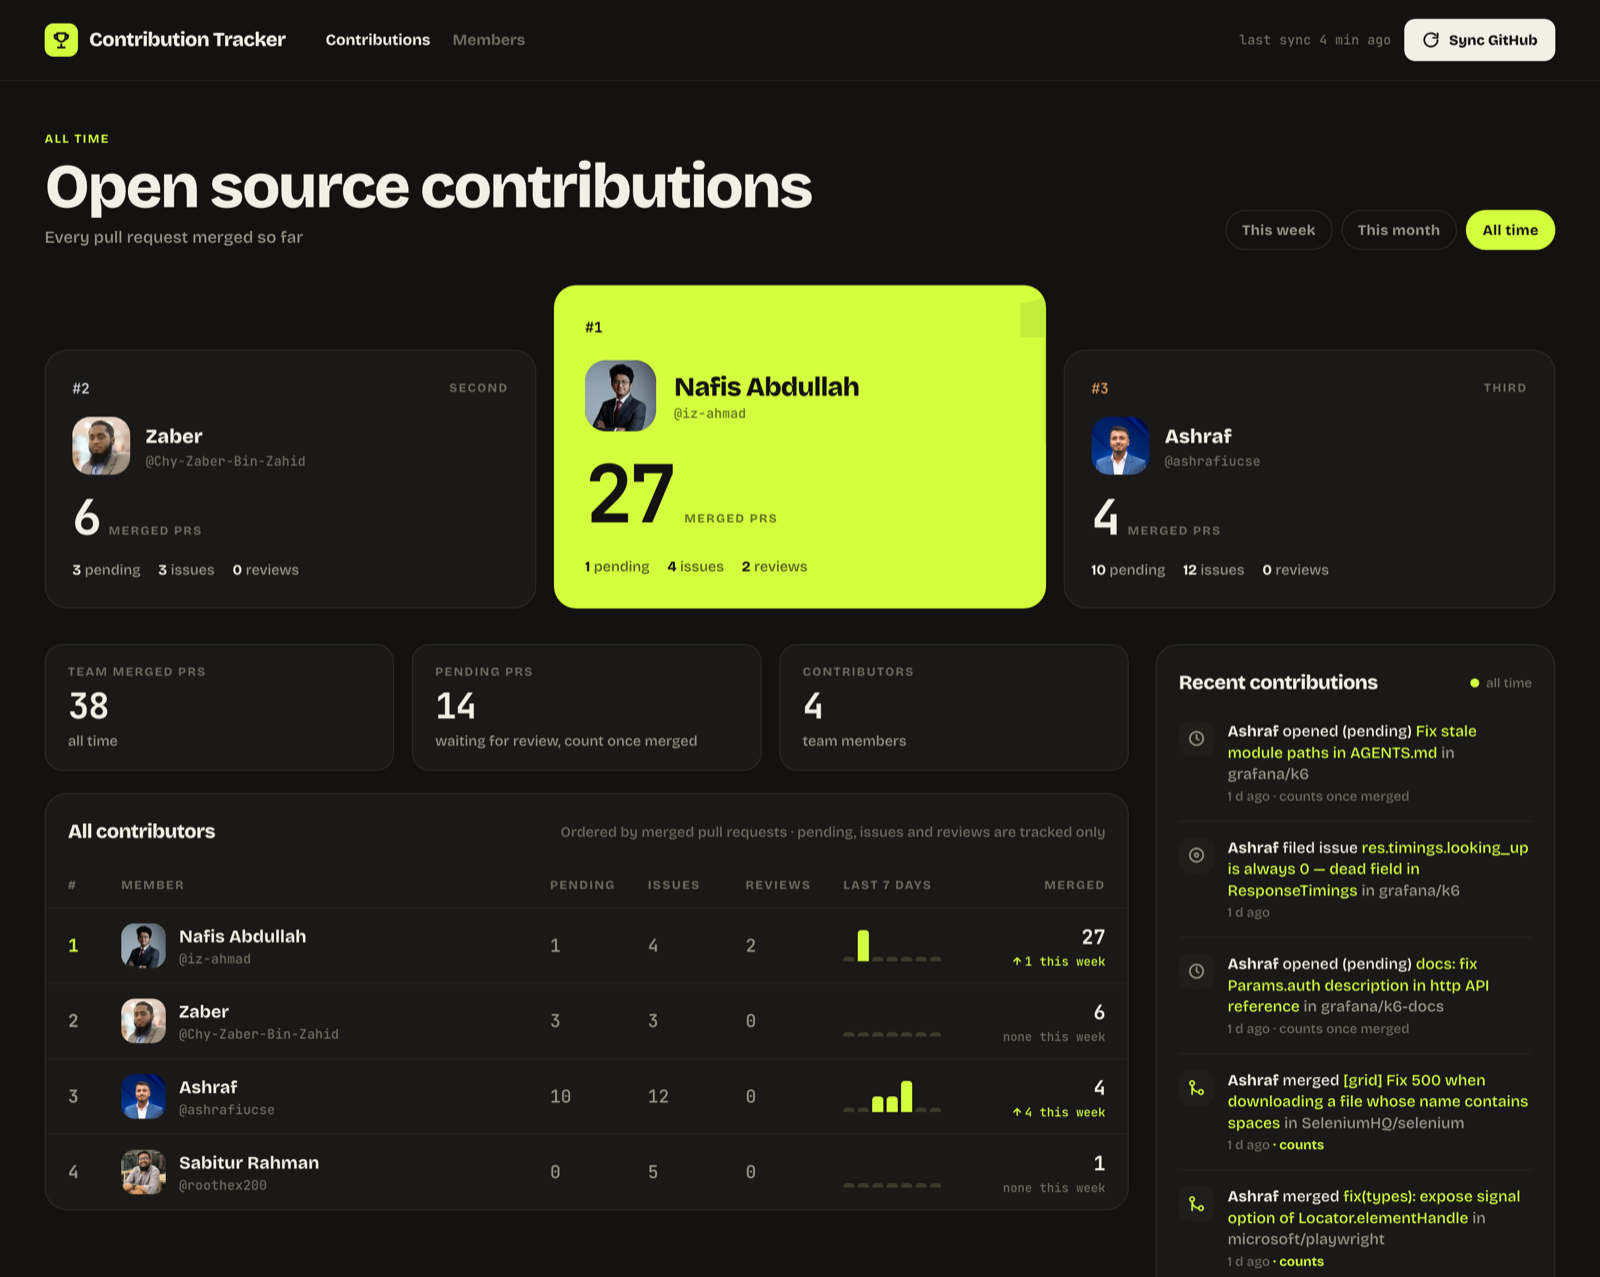
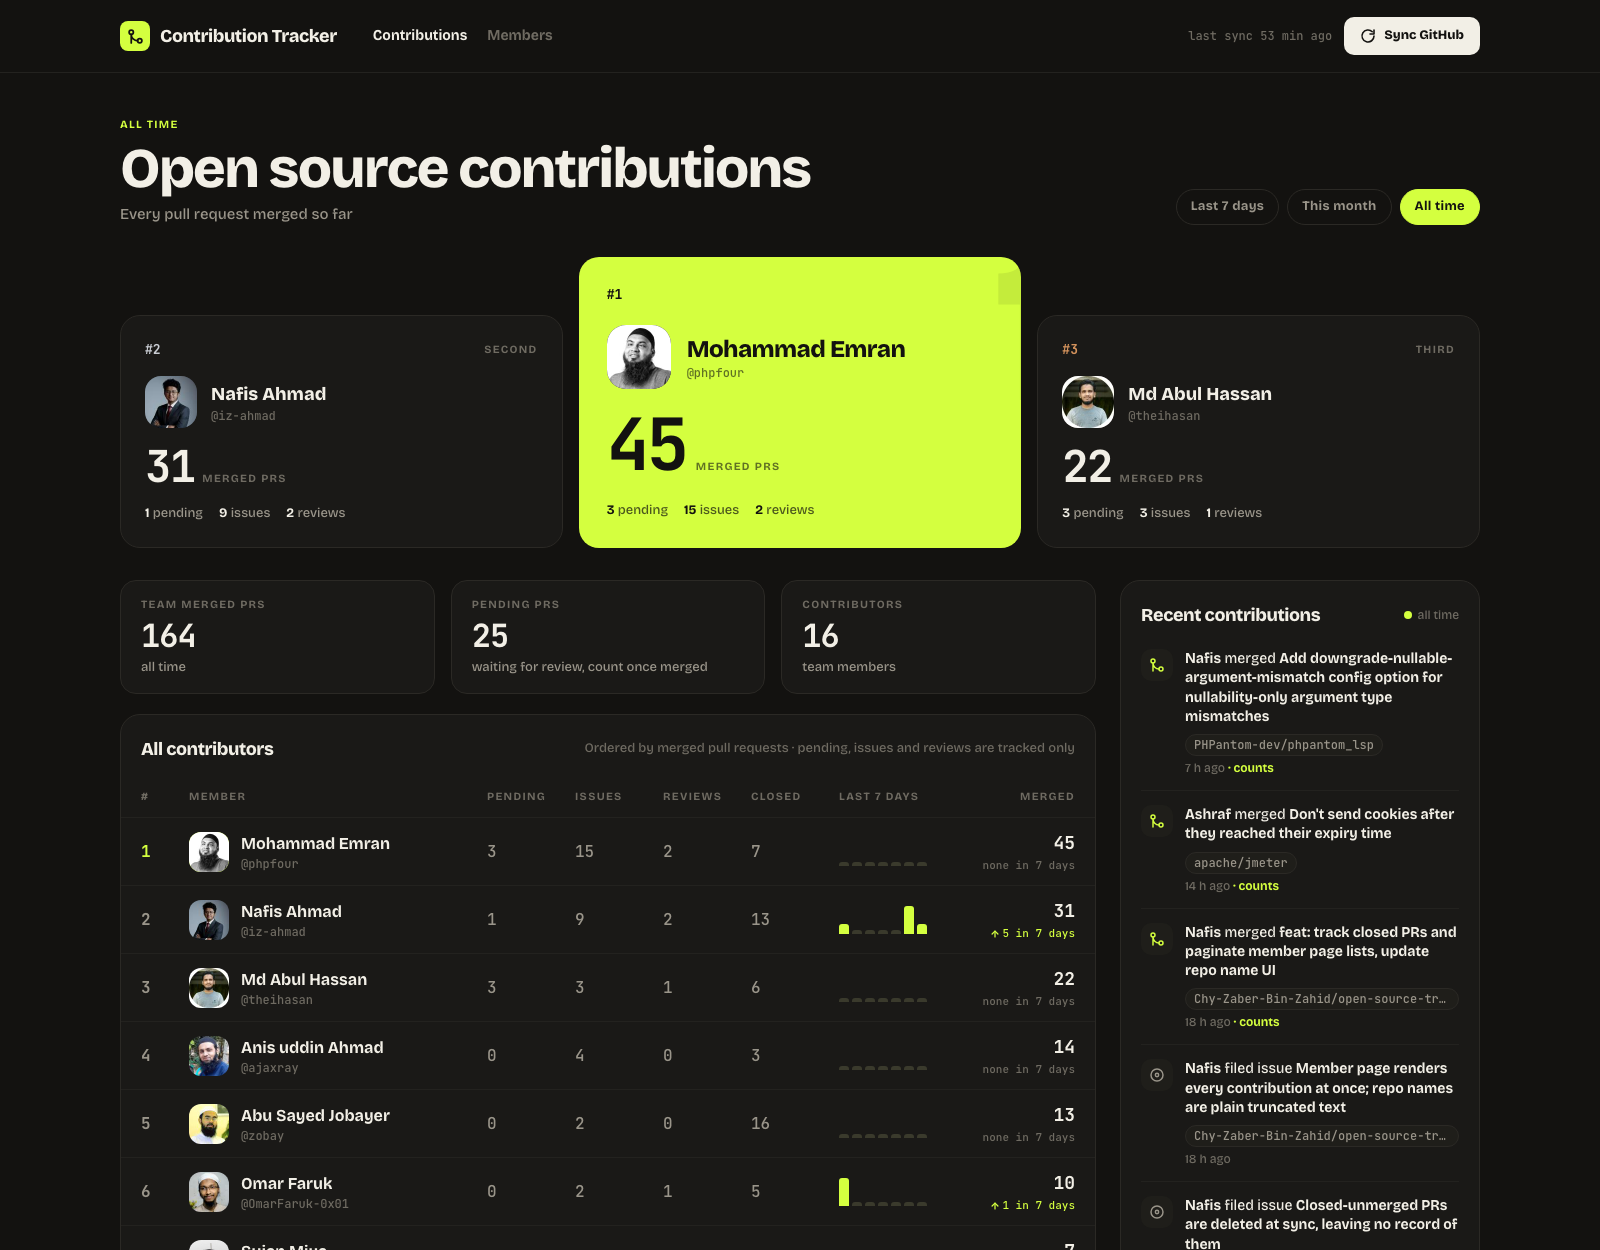
docs: refresh the screenshots and correct the token guidance
The screenshots were several releases out of date — trophy logo, a "This week"
tab, lime feed titles, and four members against today's sixteen. Recaptured from
the real board: 16 teammates, 164 merged pull requests across 69 repositories.

Also corrects three things the docs got wrong:

The GitHub token section said "no scopes are needed", which stopped being true
when REQUIRED_ORG arrived and cost us a live incident. The membership endpoint
only reveals private memberships to a token with visibility into the org, so
without read:org everyone whose membership is private reads as a non-member —
registration rejects them and syncs flag them as departed. Most orgs are private
by default; ours shows 2 public members out of 19.

SYNC_HOUR and CRON_SECRET were in .env.example but missing from the settings
table, and the layout section had drifted from the tree.

Claude-Session: https://claude.ai/code/session_01752qjHZsNDc9QoSBVyJkXB

diff --git a/README.md b/README.md
@@ -6,7 +6,7 @@ A small, self-hosted board that shows what your team has contributed to open sou
 
 ![The board, all time](docs/screenshots/board.png)
 
-<p align="center"><em>The board in real use — four teammates, 38 merged pull requests across grafana/k6, microsoft/playwright, SeleniumHQ/selenium and laravel/framework.</em></p>
+<p align="center"><em>The board in real use — 16 teammates, 164 merged pull requests across 69 repositories, including laravel/framework, Laravel-Backpack/CRUD, bagisto/bagisto, microsoft/playwright, SeleniumHQ/selenium and apache/jmeter.</em></p>
 
 **Stack:** Next.js 16 (App Router, route handlers as the backend) · React 19 · Tailwind CSS 4 · PostgreSQL 16 · Docker Compose. No ORM, no auth layer, no external services beyond the GitHub API.
 
@@ -15,7 +15,7 @@ A small, self-hosted board that shows what your team has contributed to open sou
 ## What it does
 
 - Pulls each member's public GitHub activity through the search API and stores it in Postgres.
-- Orders members by **merged pull requests** for this week, this month, or all time.
+- Orders members by **merged pull requests** for the last 7 days, this month, or all time.
 - Shows a feed of recent contributions, per-member pages, and team totals.
 - Syncs itself **every night at 2:00 AM** in your office timezone, or on demand from the header.
 
@@ -35,7 +35,7 @@ Contributions to repositories a member owns themselves are ignored by default, s
 
 ### Per-member pages
 
-Every merged pull request a person has landed, which repositories they land in most, and the issues they have filed.
+Every merged pull request a person has landed, which repositories they land in most, and the issues they have filed. Merged, pending and closed pull requests are tabbed, and long lists page in twenty at a time.
 
 ![A member page](docs/screenshots/member.png)
 
@@ -97,13 +97,24 @@ All settings live in `.env`. Copy `.env.example` to start.
 | `INCLUDE_OWN_REPOS` | `false` | Set `true` to also count activity on repos the member owns. |
 | `REQUIRED_ORG` | *(empty)* | GitHub orgs (can be single, or multiple comma-separated) new members must belong to — any one is enough. Syncs re-check and flag departures. Empty allows anyone. |
 | `DB_PORT` | `5439` | Host port Postgres is published on. 5432 is often already taken. |
-| `APP_TZ` | `UTC` | IANA timezone that defines "this week" and "this month" boundaries, e.g. `Asia/Dhaka`. **Not** `TZ` — Vercel reserves that name. |
+| `SYNC_HOUR` | `2` | Hour (0-23, in `APP_TZ`) the nightly sync runs. Docker Compose only — on Vercel the schedule lives in `vercel.json`, in UTC. |
+| `CRON_SECRET` | *(empty)* | When set, `GET /api/sync` requires `Authorization: Bearer <secret>`, so a public deployment cannot be synced by anyone who finds the URL. |
+| `APP_TZ` | `UTC` | IANA timezone that defines the "last 7 days" and "this month" boundaries, e.g. `Asia/Dhaka`. **Not** `TZ` — Vercel reserves that name. |
 
 ### The GitHub token
 
 Without a token the GitHub search API allows **10 requests per minute**, which makes a sync for even a handful of people take several minutes. With one you get 30 per minute.
 
-Create a token at <https://github.com/settings/tokens>. **No scopes are needed** if you only track public contributions. Put it in `.env` as `GITHUB_TOKEN`.
+Create a **classic** token at <https://github.com/settings/tokens>. Put it in `.env` as `GITHUB_TOKEN`.
+
+Scopes:
+
+- Tracking public contributions only: **no scopes needed**.
+- Using `REQUIRED_ORG`: **`read:org` is required**, and the token's owner must be a member of the organisation.
+
+That second point is easy to get wrong and fails quietly. `GET /orgs/{org}/members/{username}` only reveals **private** memberships to a token that has visibility into that org; otherwise GitHub redirects to the public-members endpoint and everyone whose membership is private comes back as "not a member". Registration then rejects them, and syncs flag them as having left. Most organisations have private membership by default — one of ours shows 2 public members out of 19.
+
+A plain member's token with `read:org` is enough; you do not need to own the org. Use a classic token rather than a fine-grained one, since fine-grained tokens need an org owner to approve them.
 
 `.env` is gitignored. Keep it that way — never commit a token.
 
@@ -130,21 +141,27 @@ Route handlers under `app/api` are the entire backend.
 
 ```
 app/                    Next.js App Router
-  page.tsx              The board (week / month / all time)
-  members/              Member list and per-member pages
+  page.tsx              The board (last 7 days / this month / all time)
+  loading.tsx           Skeleton shown while the board's queries run
+  members/              Member list and per-member pages, each with a skeleton
   api/                  Route handlers — the backend
 components/             Presentational React components
+  member-lists.tsx      Tabbed, paged contribution lists on a member page
+  SyncStatus.tsx        The header's sync label, suspended on its own
 lib/
   db.ts                 pg connection pool
   queries.ts            Every SQL read the app performs
   github.ts             GitHub search API client and the sync routine
-  period.ts             Week / month / all-time window maths
+  period.ts             Rolling 7 days / month / all-time window maths
   points.ts             Per-type weights for the DB `points` column
   format.ts             Number and date formatting
+  rate-limit.ts         In-memory limiter for the unauthenticated write routes
 db/schema.sql           The whole schema, idempotent
 scripts/
   migrate.mjs           Applies db/schema.sql (runs on container start)
+  scheduler.mjs         Nightly sync loop for self-hosted deployments
   seed.mjs              Demo data
+vercel.json             Nightly cron for Vercel deployments
 design/                 Design canvas source (main direction + two alternates)
 ```
 
